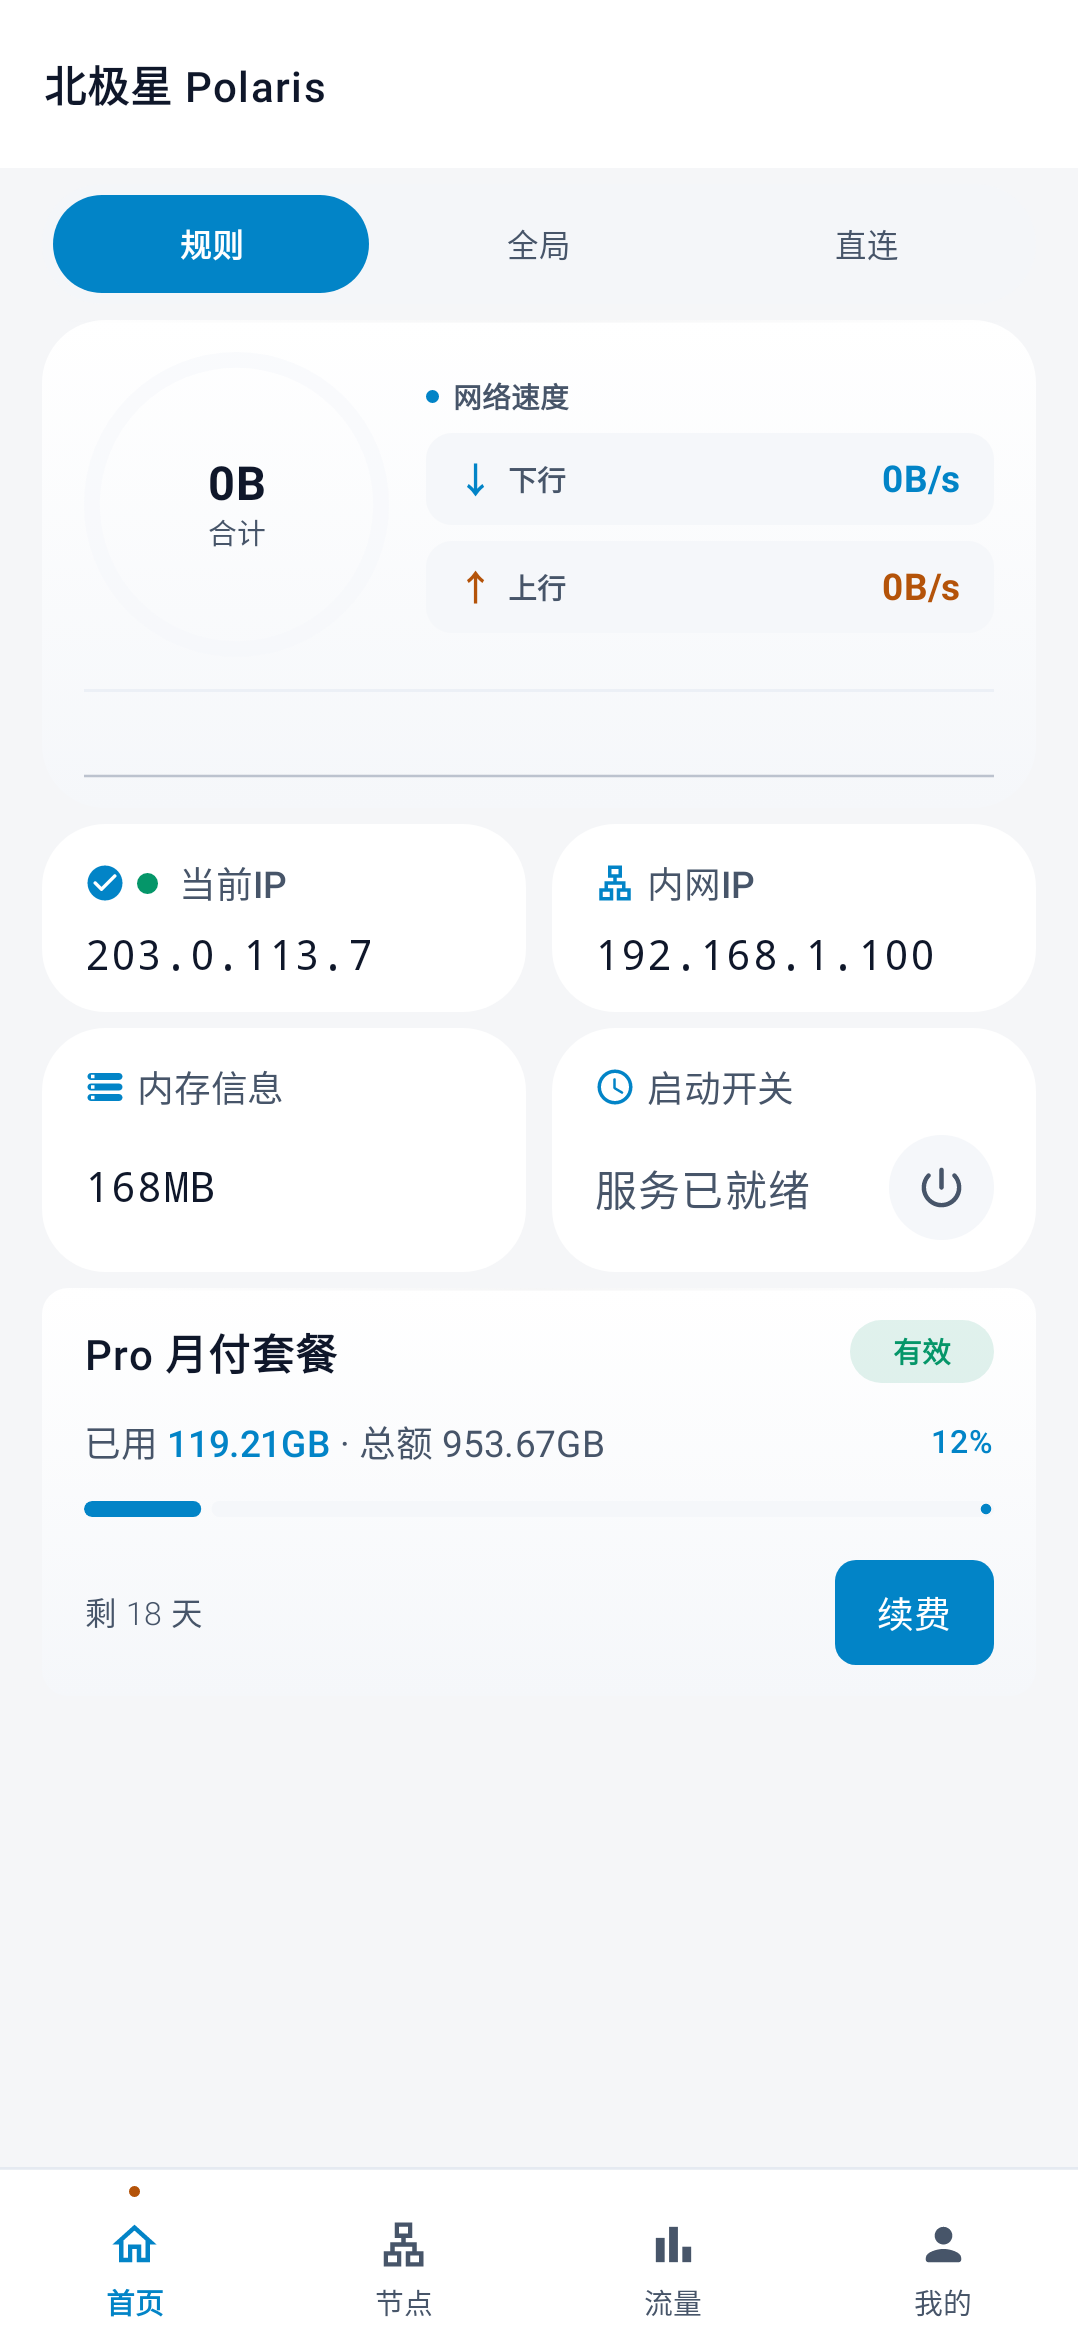
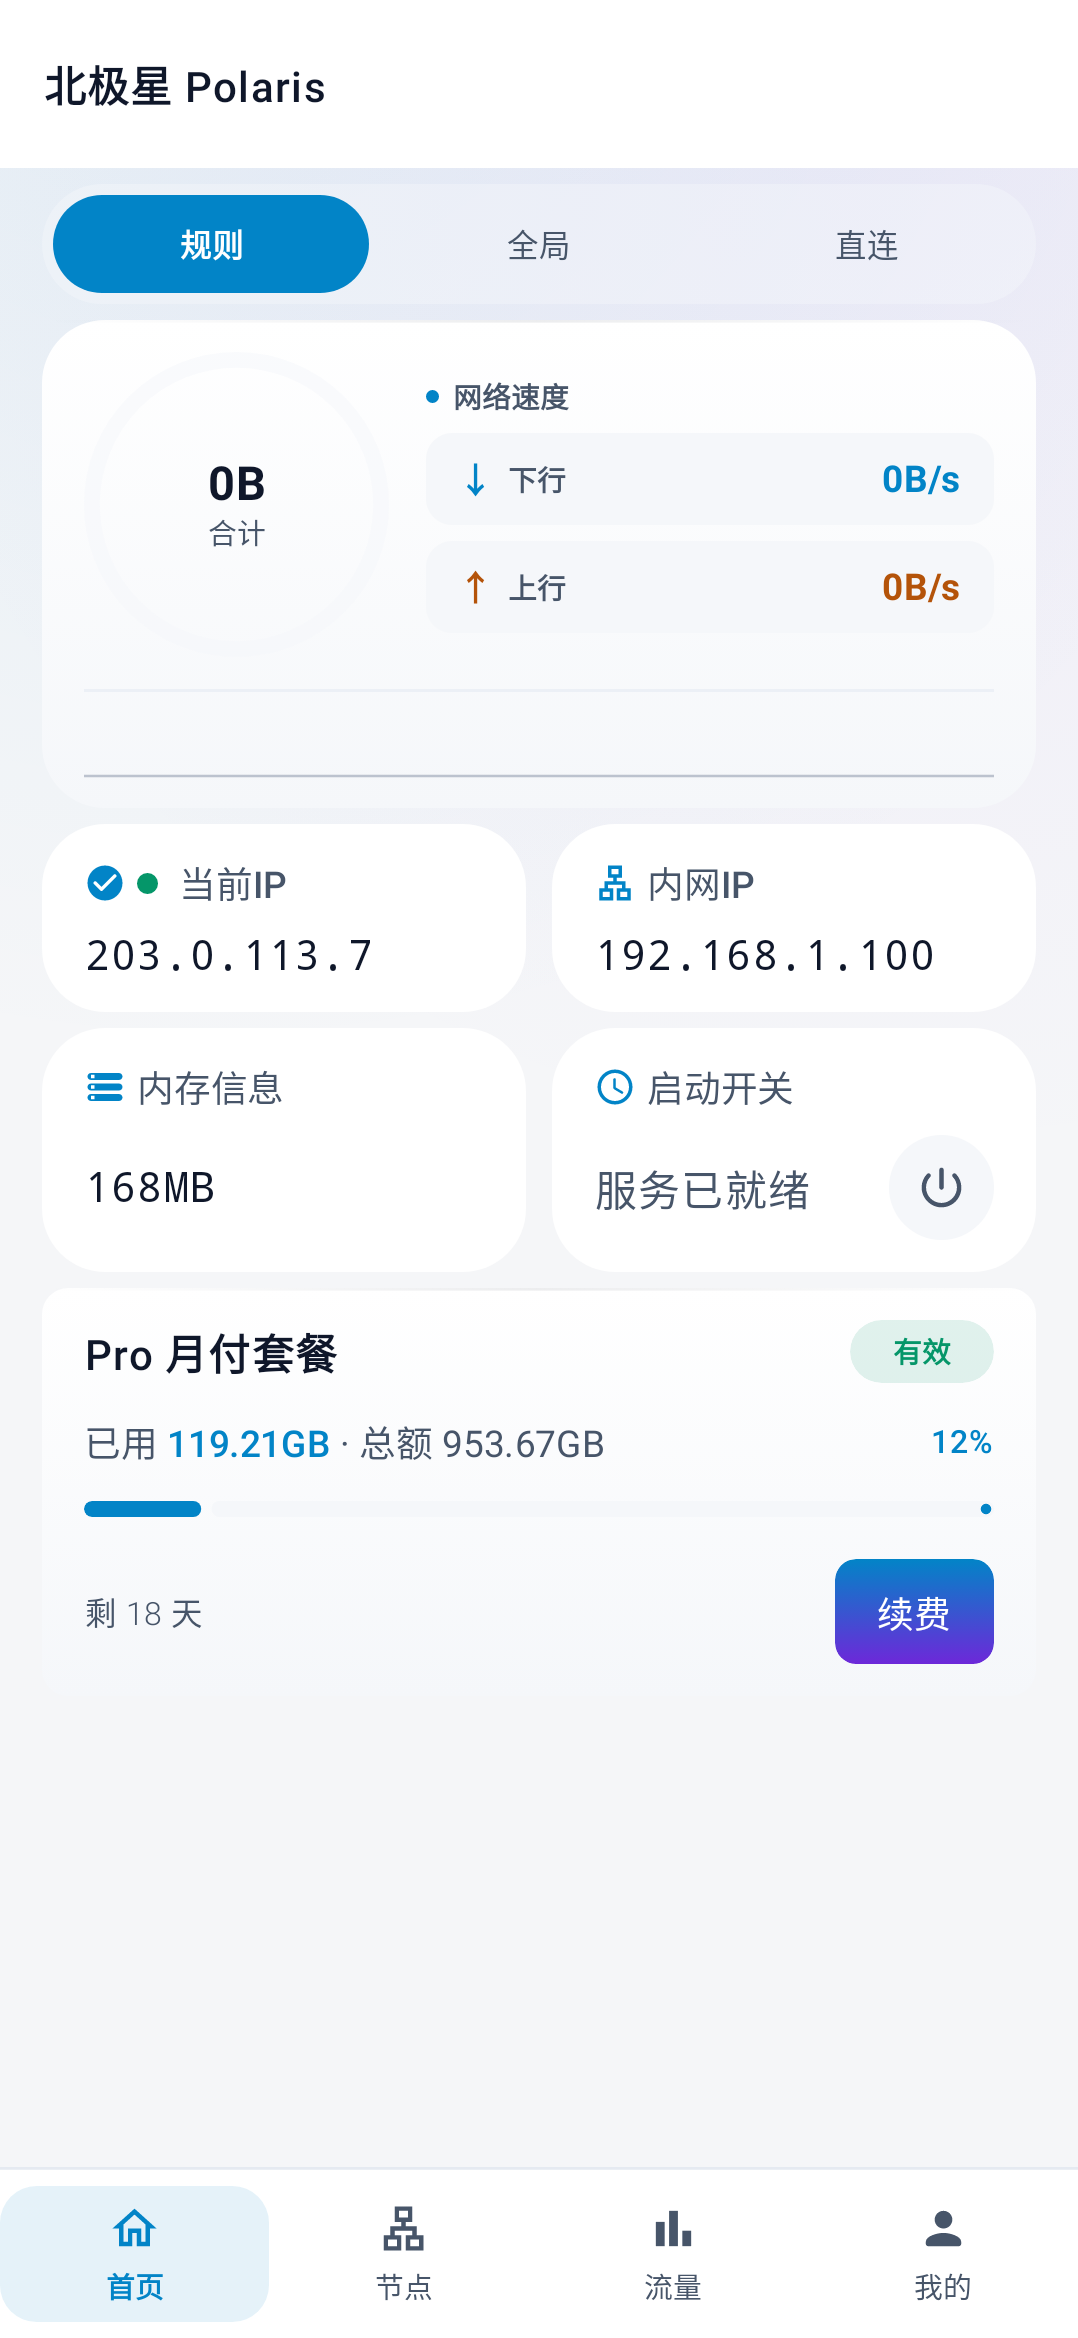
feat(ui): Aurora Polaris 氛围效果 P2 补全
- ProxyStatusBadge 加 statusSuccess 8dp shadow 软光晕
- UsageBadge 加状态色软光晕（有效=绿/过期=红/无套餐=不发光）
- SlteButton 加 aurora 参数：primary→tertiary 垂直渐变 + 8dp 同色发光
- UsageCard 续费按钮传 aurora=true 启用渐变
- 更新 Aurora Polaris 视觉设计稿截图（亮/暗 × 首页/流量/节点/我的）

diff --git a/app/src/main/java/com/slte/app/ui/component/SlteButton.kt b/app/src/main/java/com/slte/app/ui/component/SlteButton.kt
@@ -4,6 +4,7 @@
 package com.slte.app.ui.component
 
 import androidx.compose.foundation.BorderStroke
+import androidx.compose.foundation.background
 import androidx.compose.foundation.layout.PaddingValues
 import androidx.compose.foundation.layout.height
 import androidx.compose.foundation.layout.size
@@ -14,11 +15,14 @@ import androidx.compose.material3.OutlinedButton
 import androidx.compose.material3.Text
 import androidx.compose.runtime.Composable
 import androidx.compose.ui.Modifier
+import androidx.compose.ui.draw.shadow
+import androidx.compose.ui.graphics.Brush
 import androidx.compose.ui.graphics.Color
 import androidx.compose.ui.hapticfeedback.HapticFeedbackType
 import androidx.compose.ui.platform.LocalHapticFeedback
 import androidx.compose.ui.text.font.FontWeight
 import androidx.compose.ui.unit.Dp
+import androidx.compose.ui.unit.dp
 import com.slte.app.ui.theme.SlteShapes
 import com.slte.app.ui.theme.SlteType
 import com.slte.app.utils.Dimens
@@ -51,6 +55,7 @@ fun SlteButton(
     borderColor: Color? = null,
     borderWidth: Dp? = null,
     height: Dp? = null,
+    aurora: Boolean = false,
 ) {
     val haptic = LocalHapticFeedback.current
     val presetHeight =
@@ -60,12 +65,37 @@ fun SlteButton(
             else -> Dimens.size.button
         }
     val effHeight = height ?: presetHeight
+    // Aurora 模式：primary→tertiary 垂直渐变 + 同色光晕
+    val primary = MaterialTheme.colorScheme.primary
+    val tertiary = MaterialTheme.colorScheme.tertiary
+    val auroraModifier =
+        if (aurora && enabled) {
+            modifier
+                .shadow(
+                    elevation = 8.dp,
+                    shape = SlteShapes.medium,
+                    ambientColor = primary.copy(alpha = 0.4f),
+                    spotColor = primary.copy(alpha = 0.6f),
+                )
+                .background(
+                    brush = Brush.verticalGradient(listOf(primary, tertiary)),
+                    shape = SlteShapes.medium,
+                )
+        } else {
+            modifier
+        }
     val effContainer =
-        containerColor ?: when (style) {
-            SlteButtonStyle.Secondary, SlteButtonStyle.Neutral -> Color.Transparent
-            SlteButtonStyle.Tonal -> MaterialTheme.colorScheme.surface
-            SlteButtonStyle.Danger -> MaterialTheme.colorScheme.error
-            else -> MaterialTheme.colorScheme.primary
+        if (aurora && enabled) {
+            Color.Transparent
+        } else if (containerColor != null) {
+            containerColor
+        } else {
+            when (style) {
+                SlteButtonStyle.Secondary, SlteButtonStyle.Neutral -> Color.Transparent
+                SlteButtonStyle.Tonal -> MaterialTheme.colorScheme.surface
+                SlteButtonStyle.Danger -> MaterialTheme.colorScheme.error
+                else -> MaterialTheme.colorScheme.primary
+            }
         }
     val effContent =
         contentColor ?: when (style) {
@@ -113,7 +143,7 @@ fun SlteButton(
         OutlinedButton(
             onClick = action,
             enabled = enabled,
-            modifier = modifier.height(effHeight),
+            modifier = auroraModifier.height(effHeight),
             shape = SlteShapes.medium,
             contentPadding = contentPadding,
             colors =
@@ -127,7 +157,7 @@ fun SlteButton(
         Button(
             onClick = action,
             enabled = enabled,
-            modifier = modifier.height(effHeight),
+            modifier = auroraModifier.height(effHeight),
             shape = SlteShapes.medium,
             contentPadding = contentPadding,
             colors =

diff --git a/app/src/main/java/com/slte/app/ui/component/UsageCard.kt b/app/src/main/java/com/slte/app/ui/component/UsageCard.kt
@@ -28,6 +28,8 @@ import androidx.compose.runtime.setValue
 import androidx.compose.ui.Alignment
 import androidx.compose.ui.Modifier
 import androidx.compose.ui.draw.clip
+import androidx.compose.ui.draw.shadow
+import androidx.compose.ui.graphics.Color
 import androidx.compose.ui.platform.LocalHapticFeedback
 import androidx.compose.ui.res.pluralStringResource
 import androidx.compose.ui.res.stringResource
@@ -35,6 +37,7 @@ import androidx.compose.ui.text.SpanStyle
 import androidx.compose.ui.text.buildAnnotatedString
 import androidx.compose.ui.text.font.FontWeight
 import androidx.compose.ui.text.withStyle
+import androidx.compose.ui.unit.dp
 import com.slte.app.R
 import com.slte.app.ui.theme.SlteColors
 import com.slte.app.ui.theme.SlteType
@@ -204,6 +207,7 @@ fun UsageCard(
                     onClick = onAction,
                     style = SlteButtonStyle.Medium,
                     enabled = actionEnabled,
+                    aurora = true,
                 )
             }
         }
@@ -227,10 +231,24 @@ private fun UsageBadge(
             isValid -> SlteColors.current.statusSuccess
             else -> SlteColors.current.statusDanger
         }
+    // 状态色软光晕：有效=绿、过期=红、无套餐=不发光
+    val glowColor =
+        when {
+            !hasPlan -> Color.Transparent
+            isValid -> SlteColors.current.statusSuccess
+            else -> SlteColors.current.statusDanger
+        }
+    val glowElevation = if (hasPlan) 8.dp else 0.dp
 
     Box(
         modifier =
         Modifier
+            .shadow(
+                elevation = glowElevation,
+                shape = RoundedCornerShape(Dimens.planStatusChipCornerRadius),
+                ambientColor = glowColor.copy(alpha = 0.45f),
+                spotColor = glowColor.copy(alpha = 0.65f),
+            )
             .clip(RoundedCornerShape(Dimens.planStatusChipCornerRadius))
             .background(bg)
             .padding(horizontal = Dimens.gap.lg, vertical = Dimens.planStatusPaddingV),

diff --git a/app/src/main/java/com/slte/app/ui/screen/main/ProxyStatusBadge.kt b/app/src/main/java/com/slte/app/ui/screen/main/ProxyStatusBadge.kt
@@ -15,9 +15,11 @@ import androidx.compose.material3.Text
 import androidx.compose.runtime.Composable
 import androidx.compose.ui.Alignment
 import androidx.compose.ui.Modifier
+import androidx.compose.ui.draw.shadow
 import androidx.compose.ui.res.stringResource
 import androidx.compose.ui.semantics.semantics
 import androidx.compose.ui.text.font.FontWeight
+import androidx.compose.ui.unit.dp
 import com.slte.app.R
 import com.slte.app.ui.theme.SlteColors
 import com.slte.app.ui.theme.SlteIcons
@@ -46,6 +48,12 @@ internal fun ProxyStatusBadge(
     Row(
         modifier =
         modifier
+            .shadow(
+                elevation = 8.dp,
+                shape = RoundedCornerShape(Dimens.planStatusChipCornerRadius),
+                ambientColor = SlteColors.current.statusSuccess.copy(alpha = 0.45f),
+                spotColor = SlteColors.current.statusSuccess.copy(alpha = 0.65f),
+            )
             .border(
                 width = Dimens.strokeMedium,
                 color = SlteColors.current.statusSuccess,
